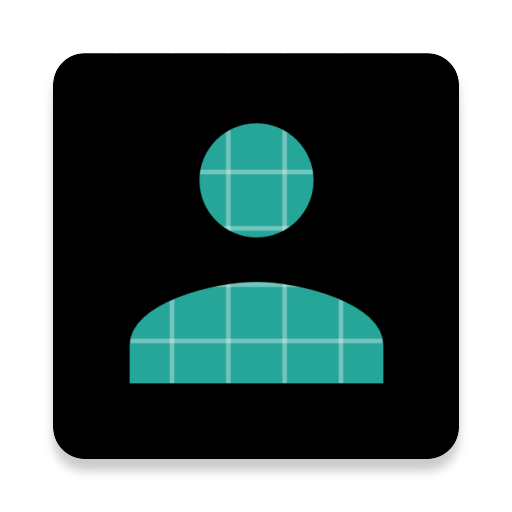
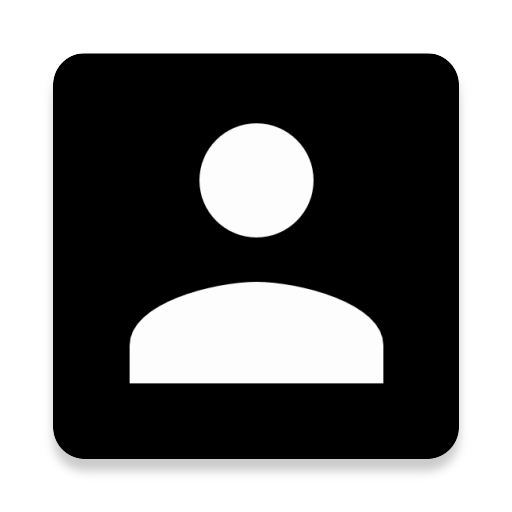
Added better mipmap pictures, added functionality for blocking incoming calls depending on the timetable (via BlockChecker class)

Changed region(s): [[0.25, 0.5312, 0.75, 0.75], [0.375, 0.2188, 0.625, 0.4688]]

diff --git a/app/src/main/java/com/example/arcibald160/callblocker/tools/BlockChecker.java b/app/src/main/java/com/example/arcibald160/callblocker/tools/BlockChecker.java
@@ -1,0 +1,145 @@
+package com.example.arcibald160.callblocker.tools;
+
+import android.content.Context;
+import android.database.Cursor;
+import android.net.Uri;
+
+import com.example.arcibald160.callblocker.data.BlockListContract;
+
+import java.text.DateFormat;
+import java.text.ParseException;
+import java.text.SimpleDateFormat;
+import java.util.Calendar;
+import java.util.Date;
+
+
+public class BlockChecker {
+
+    Context mContext;
+    String phoneNumber;
+
+    public BlockChecker(Context context, String number) {
+        mContext = context;
+        phoneNumber = number;
+    }
+
+    public boolean canBlock() {
+        return this.isNumberBlocked() || this.isTimeBlocked() || this.isNumberUnknown();
+    }
+
+    private boolean isTimeBlocked() {
+        //TODO: write this function
+
+        // TODO: GET CURRENT DAY
+        Calendar calendar = Calendar.getInstance();
+        int day = calendar.get(Calendar.DAY_OF_WEEK);
+
+        // TODO: GET CURRENT TIME
+        DateFormat dateFormat = new SimpleDateFormat("HH:mm");
+        String curTimeString = dateFormat.format(calendar.getTime());
+        Date curTime;
+
+        try {
+            curTime = dateFormat.parse(curTimeString);
+        } catch (ParseException e) {
+            // parsing was not successful, don't block the call
+            e.printStackTrace();
+            return false;
+        }
+
+        // Get all the values in BlockedTimetable
+        Uri uri = BlockListContract.BlockedTimetable.CONTENT_URI;
+
+        Cursor allValuesCursor = mContext.getContentResolver().query(
+                uri,null,null,null,null
+        );
+
+        boolean isDayBlocked = false;
+        while (allValuesCursor.moveToNext()) {
+            //TODO: LOOP THROUGH VALUES AND SEE IF CURRENT DAY IS CORRECT AND TIME IS IN THAT TIMEFRAME
+            CursorTimetableHelper cHelper = new CursorTimetableHelper(allValuesCursor);
+
+            // if timetable is not activated continue to next
+            if (!cHelper.is_activated()) continue;
+
+            int [] daysOfWeekIndices = cHelper.getDaysOfWeekIndices();
+            // determines which day is to be checked (default monday)
+            int index = 0;
+
+            // see if current day matches some blocked days in the timetable
+            switch (day) {
+                case Calendar.MONDAY:
+                    // 1 -> true, 0 -> false : true is trigger for blocking
+                    index = 0;
+                    break;
+                case Calendar.TUESDAY:
+                    index = 1;
+                    break;
+                case Calendar.WEDNESDAY:
+                    index = 2;
+                    break;
+                case Calendar.THURSDAY:
+                    index = 3;
+                    break;
+                case Calendar.FRIDAY:
+                    index = 4;
+                    break;
+                case Calendar.SATURDAY:
+                    index = 5;
+                    break;
+                case Calendar.SUNDAY:
+                    index = 6;
+                    break;
+            }
+            isDayBlocked = (allValuesCursor.getString(daysOfWeekIndices[index]).equals("1")) ? true:false;
+
+            if (isDayBlocked) {
+                // check if time is in timetable timeframe
+                Date timeFrom, timeUntil;
+                try {
+                    timeFrom = dateFormat.parse(cHelper.timeFrom);
+                    timeUntil = dateFormat.parse(cHelper.timeUntil);
+                } catch (ParseException e) {
+                    // parsing was not successful
+                    e.printStackTrace();
+                    continue;
+                }
+                int a = timeFrom.compareTo(curTime);
+                int b = timeUntil.compareTo(curTime);
+
+                // time.compareTo(time2) == -1 if time < time2
+                if (timeFrom.compareTo(curTime) <= 0 && timeUntil.compareTo(curTime) >= 0) {
+                    // if day is blocked exit and time is in the time frame send the signal for cancelling the call
+                    allValuesCursor.close();
+                    return true;
+                }
+            }
+        }
+
+        return false;
+    }
+
+    private boolean isNumberUnknown() {
+        //TODO: write this function
+        return false;
+    }
+
+    private boolean isNumberBlocked() {
+        // Check, whether this is a member of "Black listed" phone numbers stored in the database
+        Uri uri = BlockListContract.BlockListEntry.CONTENT_URI;
+
+        // search only number column
+        Cursor mCursor = mContext.getContentResolver().query(
+                uri,
+                new String[] {BlockListContract.BlockListEntry.COLUMN_NUMBER},
+                BlockListContract.BlockListEntry.COLUMN_NUMBER + "=?",
+                new String[]{ phoneNumber },
+                null
+        );
+
+        boolean retVal = (mCursor.getCount() != 0);
+        mCursor.close();
+
+        return retVal;
+    }
+}

diff --git a/app/src/main/java/com/example/arcibald160/callblocker/tools/CallBlock.java b/app/src/main/java/com/example/arcibald160/callblocker/tools/CallBlock.java
@@ -43,31 +43,23 @@ public class CallBlock extends BroadcastReceiver {
 //            // debug purposes e-is ususally error but this is hack for broadcaste receiver
 //            Log.e(TAG, number);
 
-            Uri uri = BlockListContract.BlockListEntry.CONTENT_URI;
+            BlockChecker blockChecker = new BlockChecker(context, number);
 
-            // search only number column
-            Cursor mCursor = context.getContentResolver().query(
-                    uri,
-                    new String[] {BlockListContract.BlockListEntry.COLUMN_NUMBER},
-                    BlockListContract.BlockListEntry.COLUMN_NUMBER + "=?",
-                     new String[]{ number },
-                    null
-            );
-            // Check, whether this is a member of "Black listed" phone numbers stored in the database
-            if(mCursor.getCount() != 0) {
+            if(blockChecker.canBlock()) {
                 // If yes, invoke the method
                 try {
-                    declinePhone(context);
+                    declinePhone();
                     addToBlockedCallsList(number, context);
                 } catch (Exception e) {
                     e.printStackTrace();
                 }
             }
-            mCursor.close();
+
             return;
         }
     }
 
+    // list of recently blocked calls gets filled here
     private void addToBlockedCallsList(String number, Context context) {
         Date current = new Date();
 
@@ -86,7 +78,7 @@ public class CallBlock extends BroadcastReceiver {
         );
     }
 
-    private void declinePhone(Context context) throws Exception {
+    private void declinePhone() throws Exception {
         try {
             String serviceManagerName = "android.os.ServiceManager";
             String serviceManagerNativeName = "android.os.ServiceManagerNative";

diff --git a/app/src/main/java/com/example/arcibald160/callblocker/AddNewBlockedTimetable.java b/app/src/main/java/com/example/arcibald160/callblocker/AddNewBlockedTimetable.java
@@ -51,6 +51,7 @@ public class AddNewBlockedTimetable extends AppCompatActivity {
         // trigger only on one click
         gestureDetector = new GestureDetector(this, new SingleTapConfirm());
 
+        // time from time picker
         mEditTimeFrom.setOnTouchListener(new View.OnTouchListener() {
             @Override
             public boolean onTouch(View view, MotionEvent motionEvent) {
@@ -63,6 +64,7 @@ public class AddNewBlockedTimetable extends AppCompatActivity {
             }
         });
 
+        // time until time picker
         mEditTimeUntil.setOnTouchListener(new View.OnTouchListener() {
             @Override
             public boolean onTouch(View view, MotionEvent motionEvent) {
@@ -97,6 +99,7 @@ public class AddNewBlockedTimetable extends AppCompatActivity {
 
     }
 
+    // prevent timepicker from being called twice (bug)
     private class SingleTapConfirm extends GestureDetector.SimpleOnGestureListener {
 
         @Override
@@ -127,10 +130,12 @@ public class AddNewBlockedTimetable extends AppCompatActivity {
             boolean checkedState;
             ArrayList<ToggleButton> allToggleButtons = getToggleButtons();
             int [] daysOfWeekIndices = cHelper.getDaysOfWeekIndices();
+
             for(int i=0; i<daysOfWeekIndices.length; i++) {
                 checkedState = (result.getString(daysOfWeekIndices[i]).equals("1")) ? true:false;
                 allToggleButtons.get(i).setChecked(checkedState);
             }
+
             // set state of is_active switch
             mIsActivated.setChecked(cHelper.is_activated());
         }

diff --git a/app/src/main/java/com/example/arcibald160/callblocker/data/BlockListDbHelper.java b/app/src/main/java/com/example/arcibald160/callblocker/data/BlockListDbHelper.java
@@ -51,8 +51,8 @@ public class BlockListDbHelper extends SQLiteOpenHelper {
                 BlockListContract.BlockedTimetable.COLUMN_SUNDAY + " BOOLEAN NOT NULL DEFAULT 0);";
 
 
-//        db.execSQL(CREATE_TABLE_BLOCKED_NUMBERS);
-//        db.execSQL(CREATE_TABLE_BLOCKED_CALLS);
+        db.execSQL(CREATE_TABLE_BLOCKED_NUMBERS);
+        db.execSQL(CREATE_TABLE_BLOCKED_CALLS);
         db.execSQL(CREATE_TABLE_BLOCKED_TIMETABLE);
     }
 
@@ -63,8 +63,8 @@ public class BlockListDbHelper extends SQLiteOpenHelper {
      */
     @Override
     public void onUpgrade(SQLiteDatabase db, int oldVersion, int newVersion) {
-//        db.execSQL("DROP TABLE IF EXISTS " + BlockListContract.BlockListEntry.TABLE_NAME);
-//        db.execSQL("DROP TABLE IF EXISTS " + BlockListContract.BlockedCallsReceived.TABLE_NAME);
+        db.execSQL("DROP TABLE IF EXISTS " + BlockListContract.BlockListEntry.TABLE_NAME);
+        db.execSQL("DROP TABLE IF EXISTS " + BlockListContract.BlockedCallsReceived.TABLE_NAME);
         db.execSQL("DROP TABLE IF EXISTS " + BlockListContract.BlockedTimetable.TABLE_NAME);
         onCreate(db);
     }
